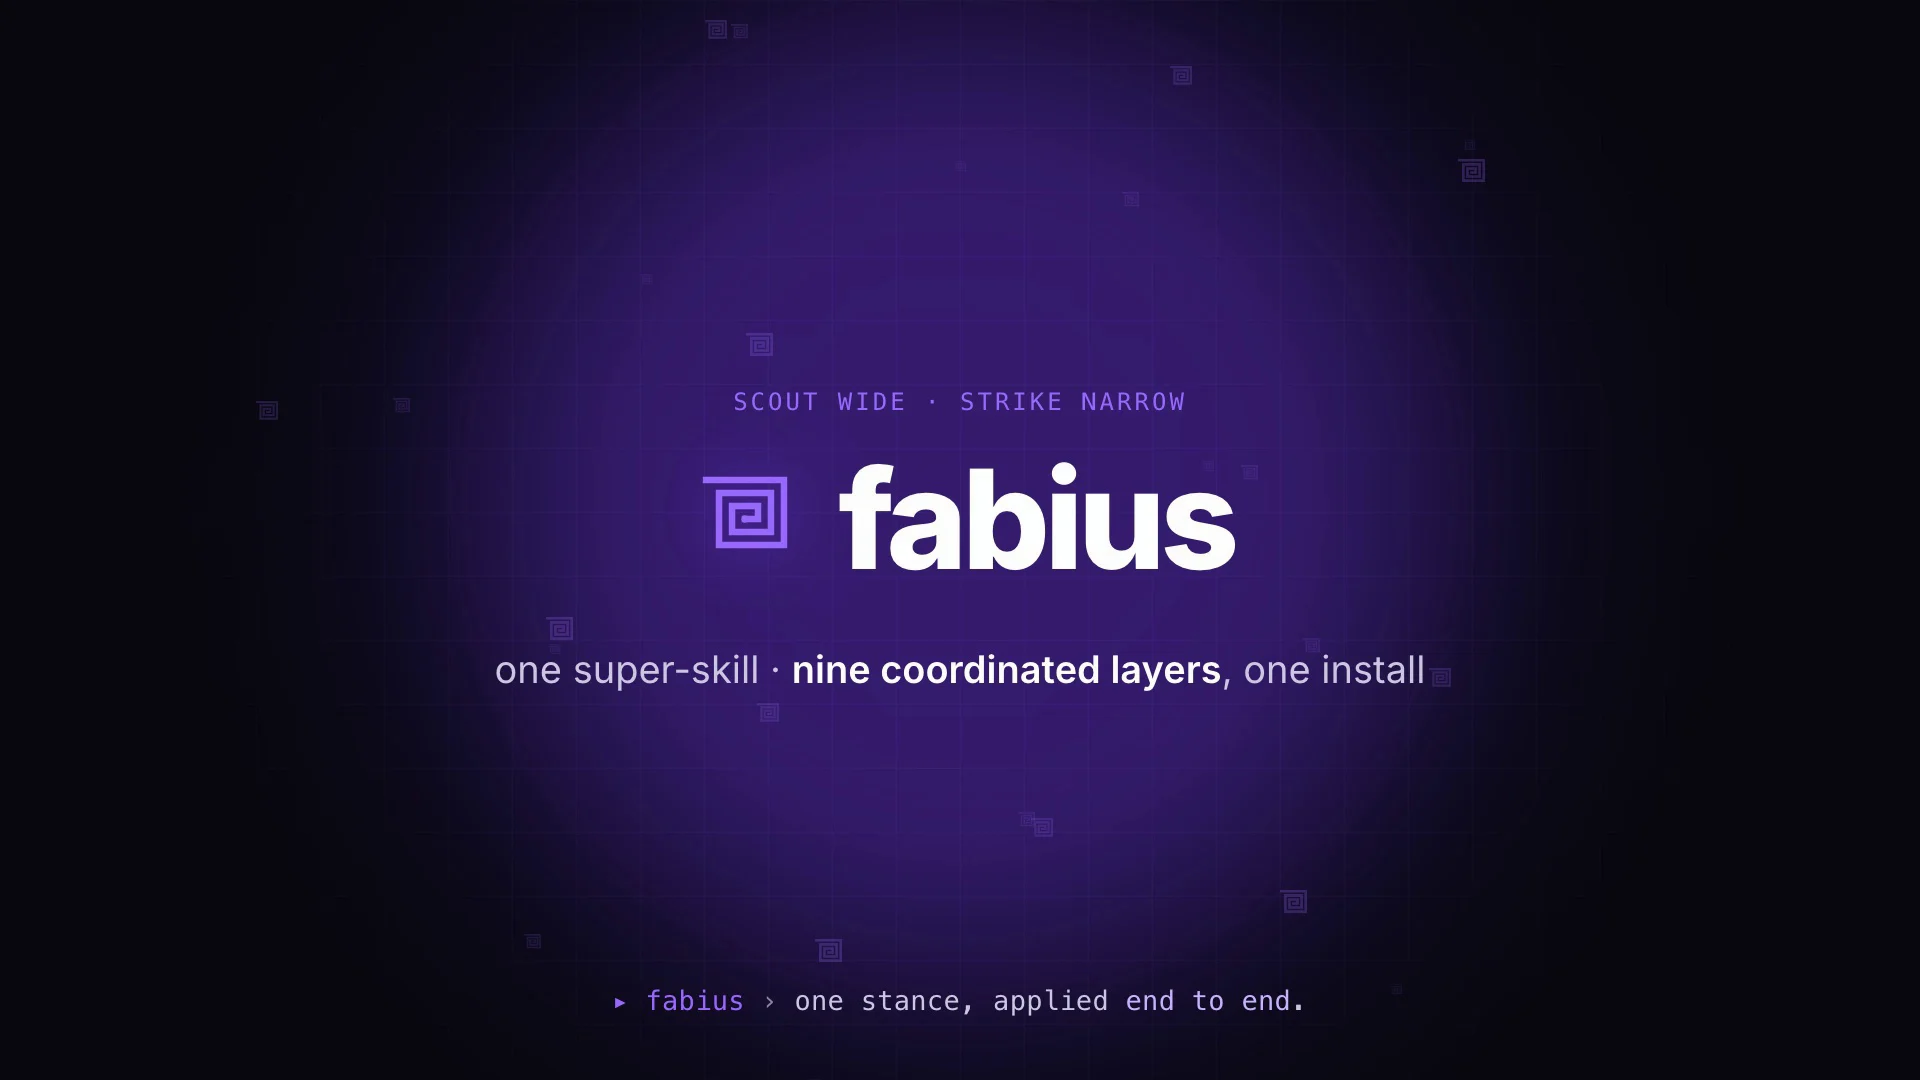
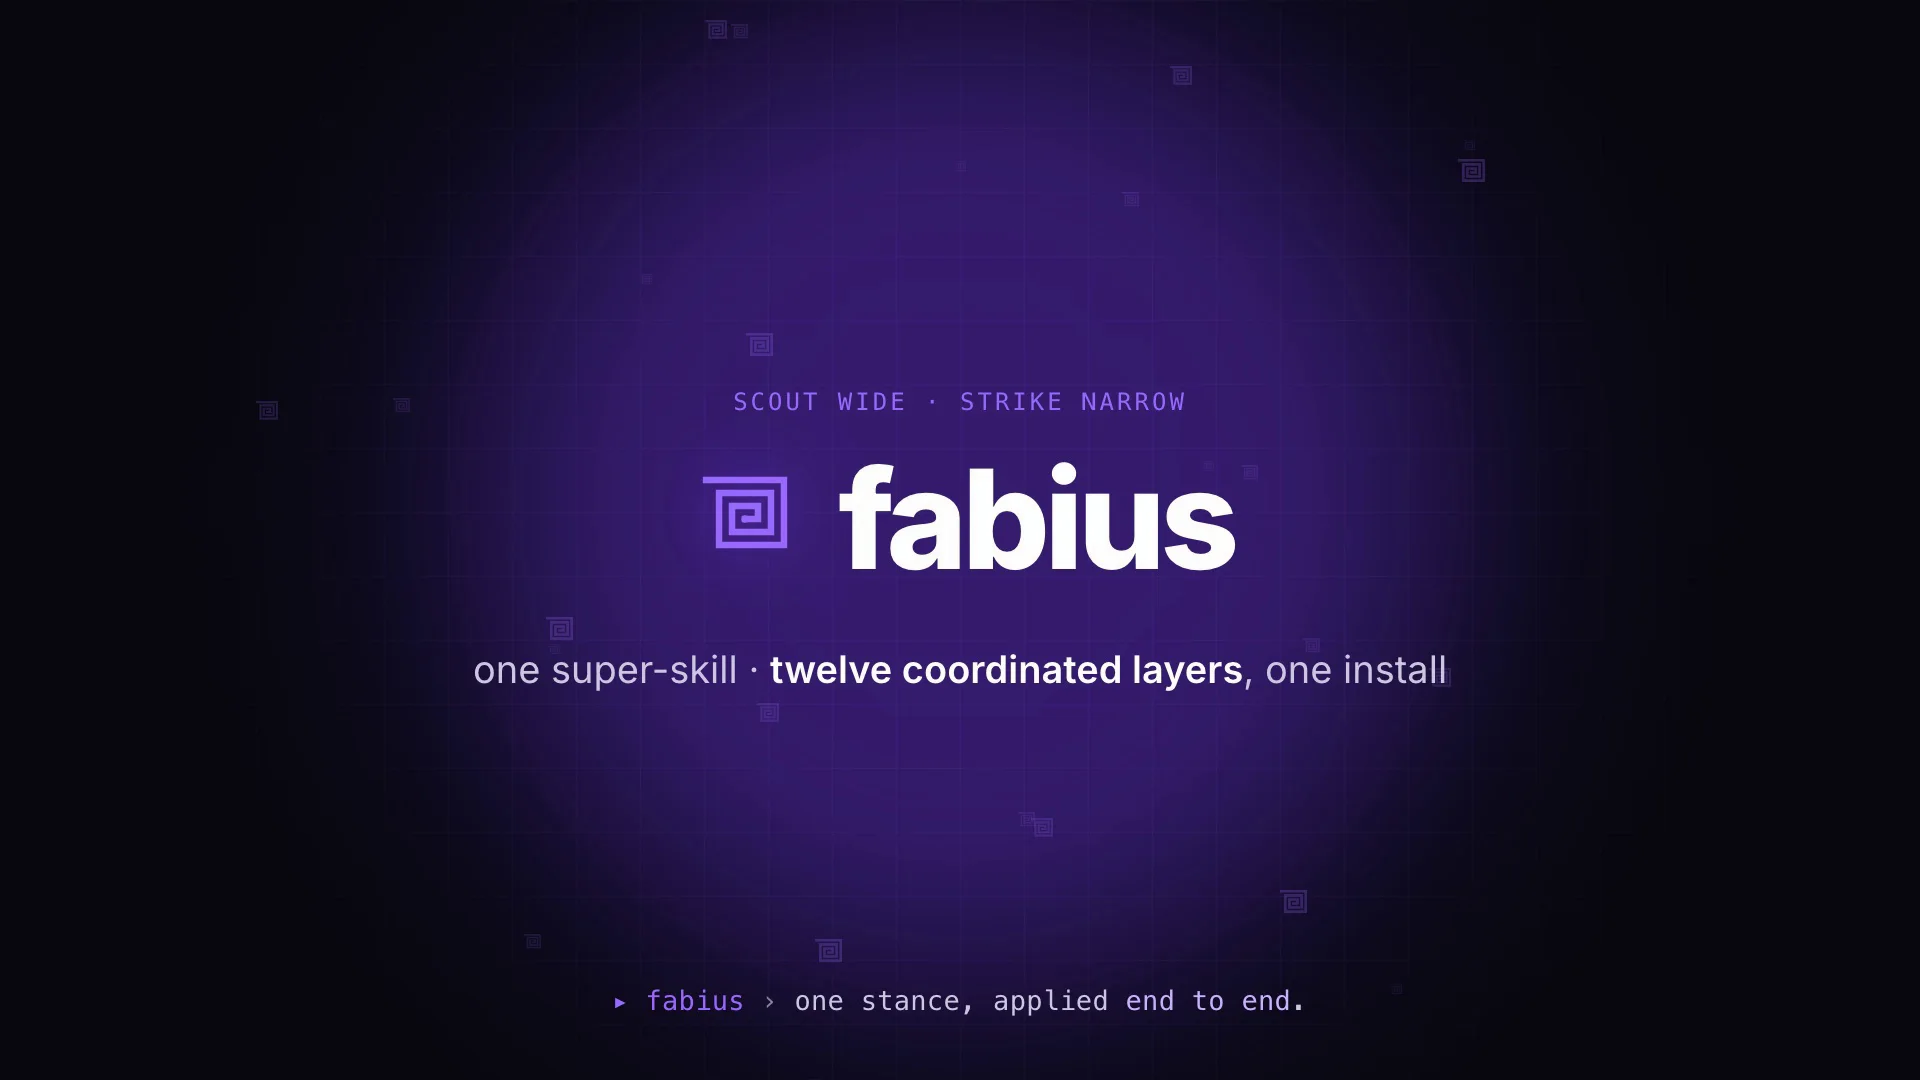
Re-render the explainer video to twelve skills + restore the count copy
The embedded explainer now matches the twelve-skill product. Re-rendered the
sibling HyperFrames source (fabius-promo/) at 1920×1080 high quality:
- Scene 3 (the mechanism): the dispatch fan now draws TEN connectors to ten
  specialist pills (added catena / machina / scientia), re-centered on the router.
- Scene 5: "Twelve coordinated skills" + "ten specialists" kicker + a 4×3 grid
  of twelve beetle chips (new gold/teal/indigo chips for the three verticals).
- Scenes 1 & 6 text → "twelve coordinated layers" / "twelve skills, one install".

Assets: fabius-explainer.mp4 re-encoded web-optimized (h264/yuv420p/faststart,
1.39 MB — leaner than before) + a fresh 36 KB poster. Demo section copy + aria
restored to name "twelve coordinated skills" (now consistent with the video);
video src + poster cache-busted (?v=2026-06-25d) so browsers fetch the new file.

Verified the rendered frames in headless review: scene 3 = 10 clean connectors,
scene 5 = 12 chips 4×3, no overflow/clipping.

Changed region(s): [[0.25, 0.6111, 0.75, 0.6417]]

diff --git a/index.html b/index.html
@@ -160,13 +160,13 @@
       <svg class="demo-emblem draw-emblem" viewBox="0 0 100 100" aria-hidden="true"><path class="draw-spiral" d="M50 50 L61 50 L61 39 L39 39 L39 61 L72 61 L72 28 L28 28 L28 72 L83 72 L83 17 L17 17" fill="none" stroke="currentColor" stroke-width="5.5" stroke-linecap="square" stroke-linejoin="miter"/><circle class="draw-dot" cx="50" cy="50" r="3.1" fill="currentColor"/></svg>
       <p class="eyebrow-text">Watch · the 25-second explainer</p>
       <h2 class="sec-title">See the whole system work.</h2>
-      <p class="sec-lede">One prompt, routed by layer to the right specialist — then the blind, reproducible benchmark that backs it. The system explaining itself, end to end.</p>
+      <p class="sec-lede">One prompt, routed by layer to one of twelve coordinated skills — then the blind, reproducible benchmark that backs it. The system explaining itself, end to end.</p>
     </header>
     <figure class="demo-frame" id="demoFrame">
-      <video class="demo-video" id="demoVideo" poster="assets/fabius-explainer-poster.webp"
+      <video class="demo-video" id="demoVideo" poster="assets/fabius-explainer-poster.webp?v=2026-06-25d"
              muted loop playsinline preload="metadata"
-             aria-label="fabius explainer: one prompt routed through the layers, the blind benchmark, and the skills grid">
-        <source src="assets/fabius-explainer.mp4" type="video/mp4" />
+             aria-label="fabius explainer: one prompt routed by layer to twelve coordinated skills, the blind benchmark, and the twelve skills grid">
+        <source src="assets/fabius-explainer.mp4?v=2026-06-25d" type="video/mp4" />
       </video>
       <button class="demo-toggle" id="demoToggle" type="button" aria-label="Play the explainer">
         <svg class="ic-play" viewBox="0 0 24 24" aria-hidden="true"><path d="M8 5v14l11-7z"/></svg>